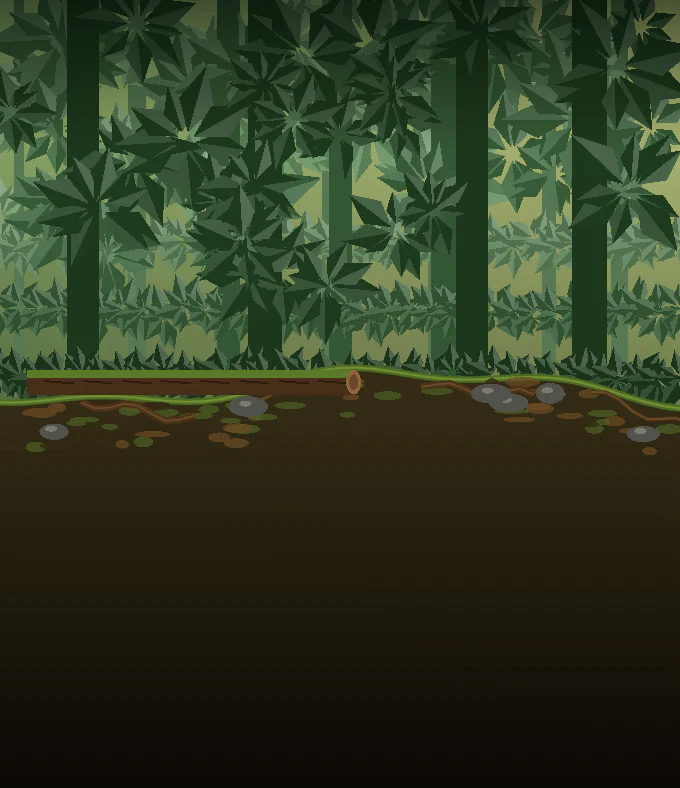
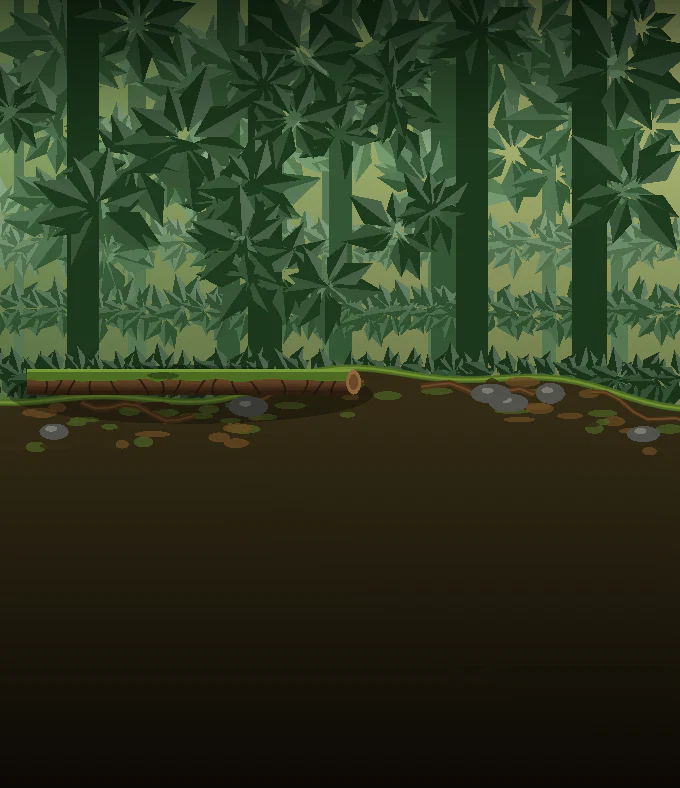
main menus

Changed region(s): [[0.0, 0.4569, 0.525, 0.5482]]

diff --git a/didi/docs/design.md b/didi/docs/design.md
@@ -314,5 +314,5 @@ and nothing in the background should pull it.
 ## The main menu's poster
 
 `scripts/menu_world.gd` (`main.gd` `menu_backdrop()`, extending the shared `scripts/menu_poster.gd`;
-the shared `main_menu.gd` keeps only a slim panel at the foot): a STAKEOUT from a high window at night, through glass streaming with rain (drops sliding down with trails, a dark frame and cross bar round the view): a street corner below -- a brick building with upper windows (a few lit), a doorway, a shop window glowing under a steady neon HOTEL sign (a slow breath, never a flicker), a lamp pouring a cone of light, a wet pavement, the road mirroring the lamp and the sign in soft streaks, fine rain falling; the game's own people under umbrellas (`agent.gd`, clipped to the glass) walking along it, evenly spaced, each at its own easy pace that surges a little, their FEET stepping (`agent.gd` `step_phase` / `step_dir`, unused in the game: the legs scissor and the forward foot lifts, the pace matched to the foot's travel so a planted foot does not slide), every step lifting the umbrella a touch and swaying it, the canopy turning in the hand (they slid at first, "as if on conveyor belts", then stepped without moving their feet); and every 6 s (the first at 1.4 s) lightning, in which the LOOKOUT stands out in the doorway, yellow coat under the clear umbrella, near invisible between flashes. Not the game's square.
+the shared `main_menu.gd` keeps only a slim panel at the foot): a STAKEOUT from a high window at night, through glass streaming with rain (drops sliding down with trails, a dark frame and cross bar round the view): a street corner below -- a brick building with two upper windows over the old building only (stone sills and lintels, glazing bars, one dark with the sky in its glass, one lit with red curtains -- they were flat black boxes, two of them behind the sign), a deep doorway (a stone surround, a panelled door standing open into the dark, a step), the HOTEL'S LOBBY seen through its glass front (`_hotel_front`: a warm back wall under a chandelier, a reception desk with a lamp and a clerk, a potted palm, a doorway to the stairs, a checked floor; dark mullions, a pair of glass doors with brass bars, rain streaks on the glass, a striped green awning with a scalloped edge, its light spilling on the pavement -- it was one flat orange slab) under a steady neon HOTEL sign (a slow breath, never a flicker), a lamp pouring a cone of light, a wet pavement, the road mirroring the lamp and the sign in soft streaks, fine rain falling; the game's own people under umbrellas (`agent.gd`, clipped to the glass) walking along it, evenly spaced, each at its own easy pace that surges a little, their FEET stepping (`agent.gd` `step_phase` / `step_dir`, unused in the game: the legs scissor and the forward foot lifts, the pace matched to the foot's travel so a planted foot does not slide), every step lifting the umbrella a touch and swaying it, the canopy turning in the hand (they slid at first, "as if on conveyor belts", then stepped without moving their feet); and every 6 s (the first at 1.4 s) lightning, in which the LOOKOUT stands out in the doorway, yellow coat under the clear umbrella, INVISIBLE between flashes (faintly shown, it read as a phantom umbrella). Not the game's square.
 Made up, never the board: the menu also opens mid-game.

diff --git a/gorilla/docs/design.md b/gorilla/docs/design.md
@@ -759,5 +759,5 @@ under it.
 ## The main menu's poster
 
 `scripts/menu_world.gd` (`main.gd` `menu_backdrop()`, extending the shared `scripts/menu_poster.gd`;
-the shared `main_menu.gd` keeps only a slim panel at the foot): deep rainforest at dawn from the side, drawn once on a still layer: three layers of foliage built from clusters of pointed leaves (circles read as blobs), each nearer one darker and less hazed, trunks, undergrowth, the forest floor, a mossy log, a soft shade behind the name; over it the game's own silverback (`peripheral_gorilla.gd`, side view; its own clock stopped and its walk cycle driven here, 4.2 rad/s, moving 0.8 body heights per cycle -- its side-view hands and feet swing +-0.2, so that is the pace at which a planted one does not slide (at its game cadence, then at 1.15, it glided) -- its weight rising and settling with each step and its body tilting with the slope; walked round off-screen) on a ROLLING floor (`_ground_at`: a rise and a dip, a mossy lit lip, roots, stones, leaf litter; it was flat) and baby (`baby_gorilla.gd`) sitting on the log beside a bunch of bananas (`banana_art.gd`, its clock set long past arrival -- at age 0 it is transparent); on top shafts of light slanting and breathing, motes, two butterflies, vines swaying, great fronds framing the corners.
+the shared `main_menu.gd` keeps only a slim panel at the foot): deep rainforest at dawn from the side, drawn once on a still layer: three layers of foliage built from clusters of pointed leaves (circles read as blobs), each nearer one darker and less hazed, trunks, undergrowth, the forest floor, a mossy log, a soft shade behind the name; over it the game's own silverback (`peripheral_gorilla.gd`, side view; its own clock stopped and its walk cycle driven here, 4.2 rad/s, moving 0.8 body heights per cycle -- its side-view hands and feet swing +-0.2, so that is the pace at which a planted one does not slide (at its game cadence, then at 1.15, it glided) -- its weight rising and settling with each step and its body tilting with the slope; walked round off-screen) on a ROLLING floor (`_ground_at`: a rise and a dip, a mossy lit lip, roots, stones, leaf litter; it was flat) and baby (`baby_gorilla.gd`) STANDING ON a ROUND log (a cylinder seen a little from above: shaded bark, furrows following the round, moss over the top, a shadow on the floor; the baby's feet a quarter of the way down its face, where its top is -- on the flat log's top edge it stood in the air) beside a bunch of bananas (`banana_art.gd`, its clock set long past arrival -- at age 0 it is transparent); on top shafts of light slanting and breathing, motes, two butterflies, vines swaying, great fronds framing the corners.
 Made up, never the board: the menu also opens mid-game.

diff --git a/tipscales/docs/design.md b/tipscales/docs/design.md
@@ -161,6 +161,11 @@ chalk, knocks or brass. A first version was music (slow harp arpeggios): "not re
 soundscape, a piano trio, chamber music or silence, the user chose the soundscape. Started with the level,
 stopped at the menu (`main.gd`).
 
+**One highlight at a time** (2026-11-17, the user): a picked crate marks the papers naming it, and a tapped
+paper marks its crates, but never both at once. Picking a crate lets a focused paper go; tapping a paper puts a
+picked crate down (`_on_view_input`, `_tap_ticket`). Both used to stay up together, so the board's highlight
+frames contradicted each other.
+
 ## The tutorial (`scripts/tutorial.gd`, in `MainCfg.tutorials`)
 
 The real game on the smallest board (2 colors of 4), its puzzles FIXED (seeded from `TUTORIAL_SEED` in
@@ -179,7 +184,9 @@ The shared menu (`main_menu.gd`, "THE POSTER") gives the screen to `scripts/menu
 `menu_backdrop()`), with only a slim panel at the foot: "Tip the Scales" in cast brass at the top, the pitch
 between two short rules, and THE BALANCE -- a big brass weigh-house scale on the counter (plinth, column,
 a dial whose needle stands up from the beam, pans on chains), two crates on one pan and a crate and a "2"
-weight on the other, rocking as if a crate had just been set down: a damped swing to one side, then to the
+weight on the other, rocking as if a crate had just been set down (drawn HEAVY -- a broad plinth, a thick column and
+beam, big alternating chain links, each part edged in dark (`EDGE`): thinner, it was lost on a phone against
+the engravings and the paneling): a damped swing to one side, then to the
 other (`_beam_angle`, 7 s; each swing starts exactly where the last came to rest -- it jumped at first).
 Behind it THE WALL, in three layers under the balance (`_draw_wall_layer`; the papered wall and the
 dressing drawn once, the view every frame): olive-striped wallpaper with a small gilt motif, aged toward

diff --git a/wolves/docs/design.md b/wolves/docs/design.md
@@ -507,7 +507,10 @@ kicking up dust (a 9 s cycle; the first version did not look like the dog scared
 wolves at their NATURAL proportions: the game's girth (`BEAST_GIRTH`, stockier for a phone's small board)
 is taken off with a uniform scale. THE ANIMALS STEER (`_steer`): each turns toward the point it wants (at most 3.2 rad/s)
 and walks forward along its own heading, slowing almost to a stop while facing away -- moved along a path
-with their turns eased separately, they crabbed sideways through turns. The dog never goes through the
-flock (its goal is pushed out to the flock's edge).
+with their turns eased separately, they crabbed sideways through turns. THE DOG HAS ONE CONTINUOUS GOAL (2026-11-17): its own angle round the flock, going on round while circling and
+turning toward the first wolf's side while dashing, at a distance from the ring out to just short of the wolf,
+never inside the flock's edge. It used to have a "keep out of the flock" goal and a "circle" goal that took
+turns every frame near the flock's edge: it stood on the spot turning left and right (the jitter seen on a
+phone), measured as a heading flipping by 3.2 rad/s every frame for seconds at a time.
 The first version stood in the game's forest shader, whose square clearing read like a board. The glade shows
 at once; the animals fade in when their atlases exist (the menu never holds up). Made up, never the board: the menu also opens mid-game.
